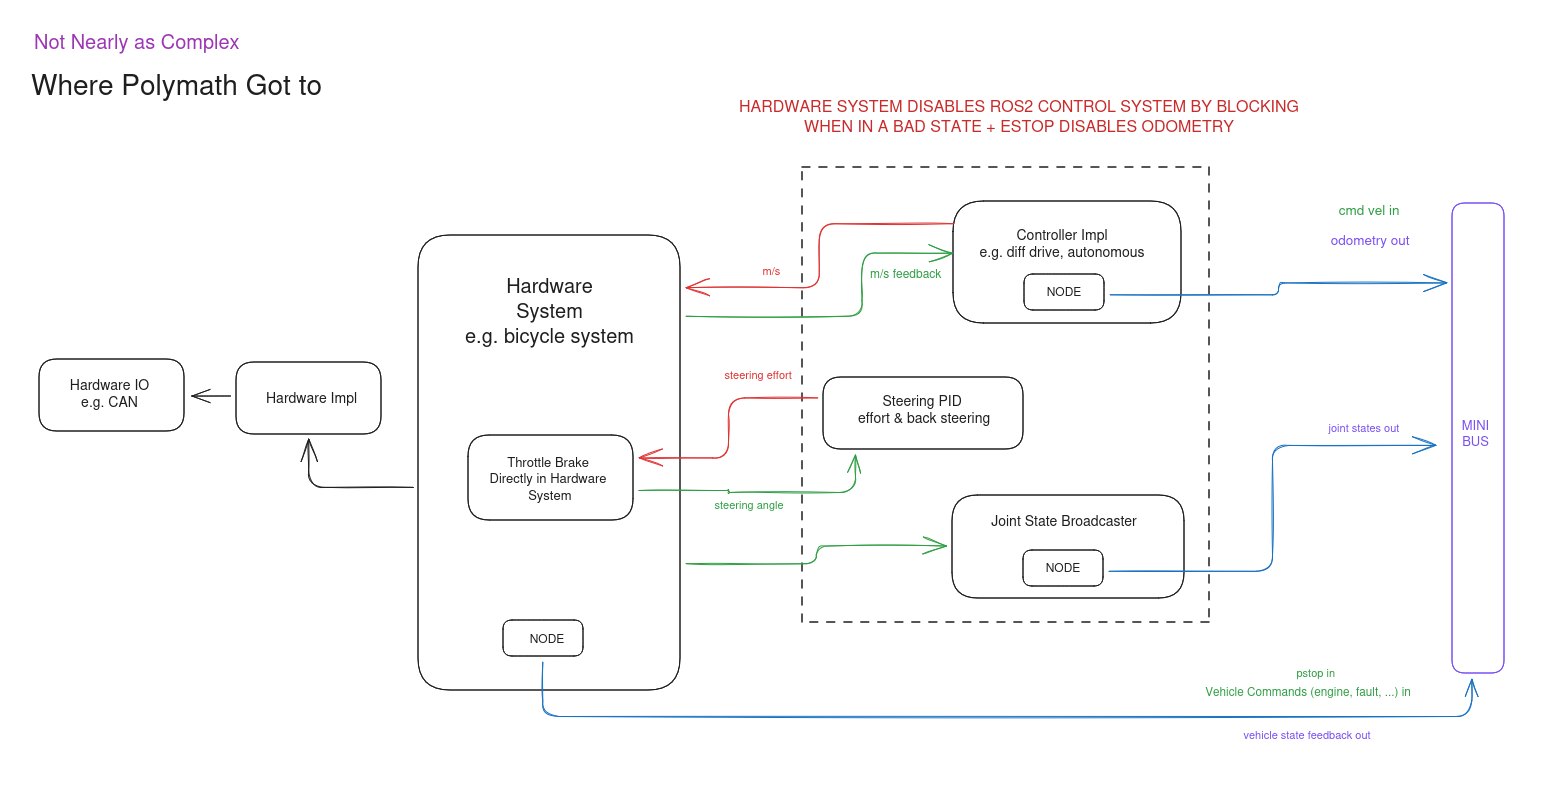
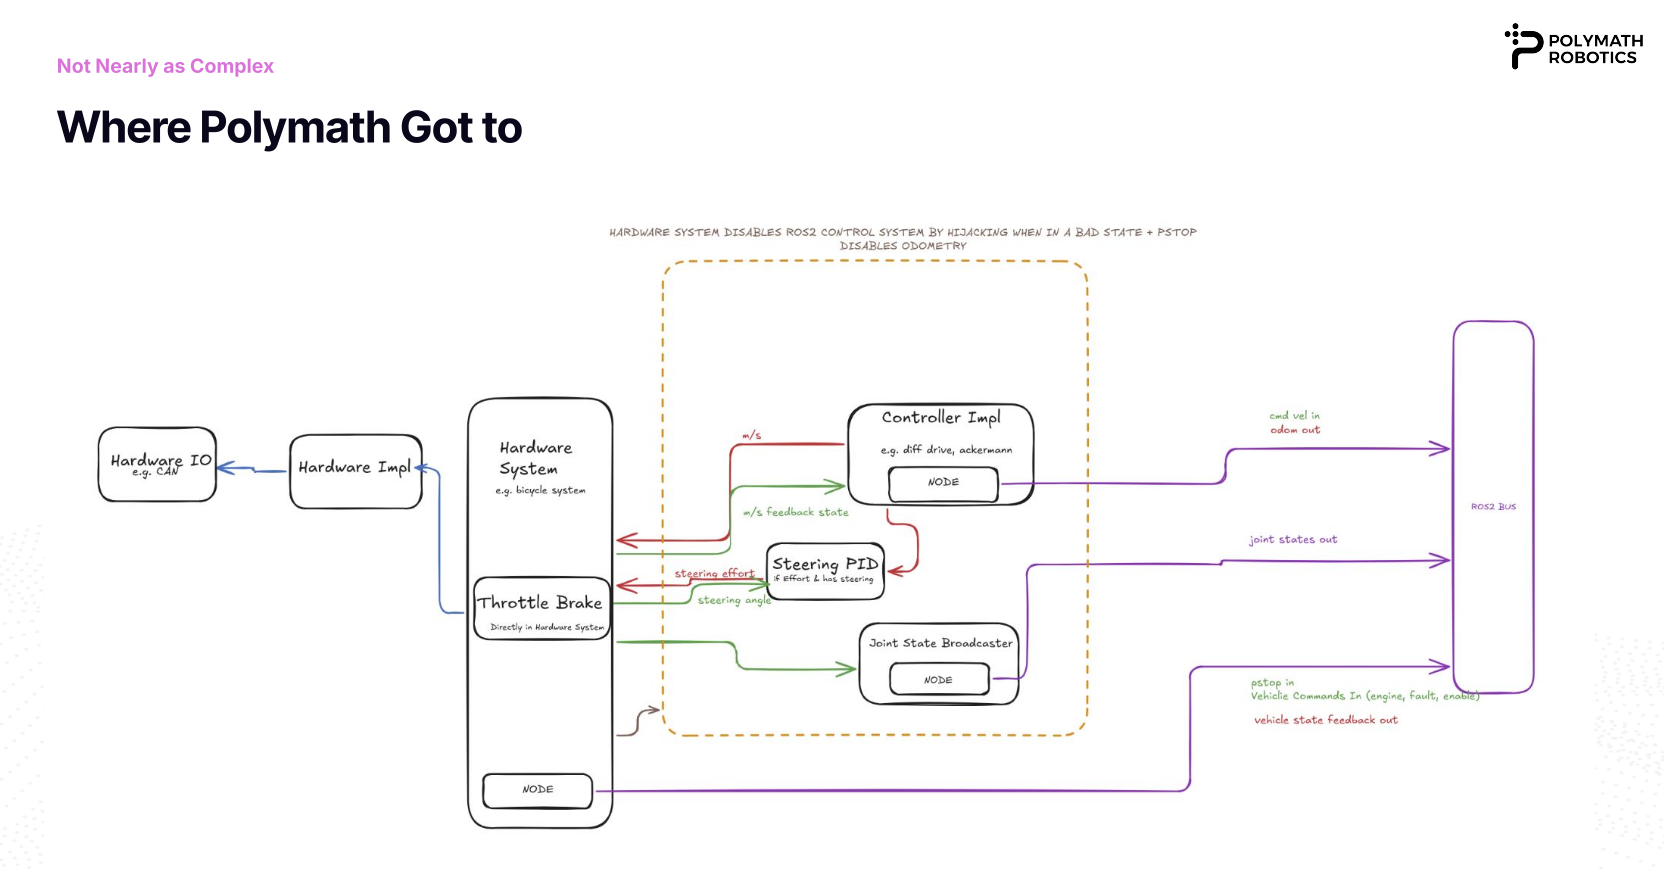
Update with Polymath notes

diff --git a/design_drafts/polymath_usecase.md b/design_drafts/polymath_usecase.md
@@ -21,19 +21,19 @@ Fleet context: articulated vehicles/tractors with two rigid bodies connected by 
 
 ### Design Iterations
 
+<img src="images/polymath_design_requirements.png" alt="Polymath Design Requirements" style="max-width: 600px; width: 100%; height: auto;" />
+
 Polymath Robotics evaluated ros2_control frameworks and ran into several challenges. Mapping diverse vehicles to specific hardware interfaces and incorporating braking and steering logic into various controllers became too complex. Additional factors — kinematics for articulation, the cognitive load of ros2_control configuration, and protective-stop integration — led them to their own design. 
 
-![Polymath Design](images/polymath_design.png)
+<img src="images/polymath_design.png" alt="Polymath Design" style="max-width: 600px; width: 100%; height: auto;" />
 
-The design connects a hardware system (e.g., bicycle) to a ROS2 Control System via a MINI BUS. Command velocity drives throttle, brake, and steering. The ROS2 side runs a Controller Impl (differential drive and autonomous), Steering PID, and Joint State Broadcaster, using speed and steering-angle feedback from hardware and publishing odometry and joint states. Safety: the hardware can disable the ROS2 Control System on bad state, and an emergency stop disables odometry output.
-
-MINI BUS: Polymath-specific software abstraction for the interface between vehicle hardware (actuators, sensors) and the control layer. It carries commands (throttle, brake, steering) to the hardware and feedback (speed, steering angle) back to the controller. Clarification: does it sit on top of a standard protocol such as CAN, or is it purely a logical interface?
+Polymath uses CAN with socketcan as interface. They then parse the CAN messages in a layer that converts them into useful information. That layer then gets read into whoever needs it, such as a hardware system, or directly into the polymath driver structure.
 
 ### Kinematics & Control to Vehicle
 
 The pipeline to generate the twist odometry is: **Hardware sensors → kinematics math → ROS2 Odometry/Twist topic**
 
-![kinematics to control](images/polymath_kinematics_to_control.png)
+<img src="images/polymath_kinematics_to_control.png" alt="kinematics to control" style="max-width: 600px; width: 100%; height: auto;" />
 
 - Kinematics acts as the translation layer — The articulated vehicle footprint plot shows that a raw cmd_vel (linear + angular velocity) must be turned into the actual steering and drive commands the vehicle needs, based on how far the joint is bent and how fast it's moving. A single velocity command produces very different vehicle footprints(motion trajectories) depending on steering state.
 
@@ -44,6 +44,11 @@ The pipeline to generate the twist odometry is: **Hardware sensors → kinematic
 A diagram from the presentation shows three curves: at a given articulation angle, angular velocity depends strongly on forward speed. This leads to several design implications — for example, accounting for steering rate (γ̇) in the twist estimate to avoid localization drift, and modeling the lag between commanded steering and actual geometry due to rotational inertia at the articulation joint.
 
 This is more complex than a standard differential-drive robot where `ω = v/r`. Here, angular velocity is a **non-linear function of geometry, speed, and the derivative of the steering state** which may be why Polymath built a dedicated kinematics layer rather than relying on a generic ROS2 diff-drive controller.
+
+
+Note from Polymath:
+
+> Articulation does not align directly with a bicycle steering controller as it has different kinematics and includes an extra term for articulation rate.
 
 ## Configuration Challenges
 
@@ -78,11 +83,32 @@ A protective stop system is designed to be a preventative measure that initiates
 
 - Regarding the Polymath design statement: "Safety: the hardware can disable the ROS2 Control System on bad state, and an emergency stop disables odometry output." What does this entail?
 
+Note from Polymath: 
+
+>This refers to when a vehicle is in some sort of non-operational mode. Examples could be emergency stops, faulted states, human only modes which we have to take control from. In all of these, we don't want any controllers to send commands. We ESPECIALLY don't want wind up, even to the limits, because on taking back control it'll max out its command and shoot in some direction.
+
 - Is it true that Polymath uses only the PID from control_toolbox?
+
+Note from Polymath:
+
+>We are using PID and PIDRos. We have used the other parts of the library before as well such as the lowpass filter. 
+>For some of our vehicles we are still using ROS 2 Control but are currently transitioning to our internal version currently.But we plan to keep using PID and PID Ros."
+
 
 - Regarding: "For multi-joint control interfacing with other libraries they will keep using it, but break out the interfaces." Are there examples?
 
+Note from Polymath:
+
+> Yes! We are using MoveIt to control what is effectively a multi-joint crane doing some work in a metal facility. We don't plan to move away from ros2 control and moveit for this application."
+
 - Are there features in ros2_control or ros2_controllers that could reduce complexity (e.g., features under control_toolbox)?
+
+Note from Polymath:
+
+> This is a hard question, some of it is structural. The problem is that to add something like a fault clear we have to add a controller + a hardware interface that does clearing.  For handling a pstop, similar but it needs a controller that outputs zero cmd_vels into the cascade for the kinematic controllers. Ideally we also reset the PID windup to 0 too. And the maintenance of all the specific pieces is a lot.
+
+> We are also on humble so a lot of the controllers don't yet have the ability to cascade.
+
 
 ## Polymath Open Source Projects
 
